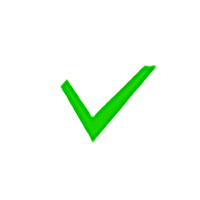
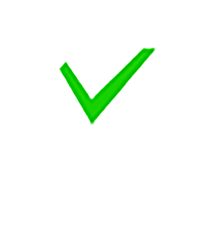
发现页调试

Changed region(s): [[0.3, 0.18, 0.78, 0.72]]

diff --git a/src/views/discover/component/everyTen.vue b/src/views/discover/component/everyTen.vue
@@ -2,11 +2,9 @@
   <div class="m-discover-every">
     <div class="m-swipe-box">
       <mt-swipe :auto="2000">
-        <mt-swipe-item v-for="item in items" :key="item.id">
-          <a :href="item.href" rel="external nofollow" >
-            <img :src="item.url" class="img"/>
-            <span class="desc"></span>
-          </a>
+        <mt-swipe-item v-for="item in bannerList" :key="item.id">
+            <img :src="item.rbimage" class="img" @click="toProduct(item)">
+            <!--<span class="desc"></span>-->
         </mt-swipe-item>
       </mt-swipe>
       <div class="m-scroll">
@@ -29,7 +27,6 @@
           </li>
         </ul>
       </div>
-
       <div class="m-title">
         <div>
           <img src="" class="m-item-title-img" alt="">
@@ -42,80 +39,9 @@
           <span>21231</span>
         </div>
       </div>
+      <div class="line"></div>
     </div>
-    <div class="m-swipe-box">
-      <mt-swipe :auto="2000">
-        <mt-swipe-item v-for="item in items" :key="item.id">
-          <a :href="item.href" rel="external nofollow" >
-            <img :src="item.url" class="img"/>
-            <span class="desc"></span>
-          </a>
-        </mt-swipe-item>
-      </mt-swipe>
-      <div class="m-scroll">
-        <ul class="m-img-list">
-          <li>
-            <img src="http://images.51bi.com/opt/siteimg/pb/20140307/c29ad52051879f0d13f1da57472abe88.jpeg" class="m-img-list-img" alt="">
-            <p><span class="m-price">￥169</span><span class="m-red">赚12</span></p>
-          </li>
-          <li>
-            <img src="http://img.eelly.com/G01/M00/00/89/small_oYYBAFWOxpSIBiLzAAMKSN5SRlQAAA1rgDeJeEAAwpg61.jpeg" class="m-img-list-img" alt="">
-            <p><span class="m-price">￥69</span><span class="m-red">赚12</span></p>
-          </li>
-          <li>
-            <img src="http://img.eelly.com/G02/M00/00/7F/small_pIYBAFVfLxCIItqyAATKYNG5CMEAAAxsQHbafcABMp4028.jpg" class="m-img-list-img" alt="">
-            <p><span class="m-price">￥69</span><span class="m-red">赚12</span></p>
-          </li>
-          <li>
-            <img src="http://img5.imgtn.bdimg.com/it/u=2506569644,813669471&fm=26&gp=0.jpg" class="m-img-list-img" alt="">
-            <p><span class="m-price">￥69</span><span class="m-red">赚12</span></p>
-          </li>
-        </ul>
-      </div>
-
-      <div class="m-title">
-        <div>
-          <img src="" class="m-item-title-img" alt="">
-          <span>拉夏贝尔La Chapelle</span>
-        </div>
-        <div class="m-lookinfo-box">
-          <span class="m-look-icon"></span>
-          <span>1231</span>
-          <span class="m-smile-icon"></span>
-          <span>21231</span>
-        </div>
-      </div>
-    </div>
-    <!--<div class="m-item-one">
-      <ul class="m-item-img-list">
-        <li>
-          <img src="" class="m-item-img m-item-img-l" alt="">
-        </li>
-        <li>
-          <img src="" class="m-item-img" alt="">
-        </li>
-        <li>
-          <img src="" class="m-item-img" alt="">
-        </li>
-        <li>
-          <img src="" class="m-item-img" alt="">
-        </li>
-      </ul>
-      <div class="m-title">
-        <div>
-          <img src="" class="m-item-title-img" alt="">
-          <span>拉夏贝尔La Chapelle</span>
-        </div>
-        <div class="m-lookinfo-box">
-          <span class="m-look-icon"></span>
-          <span>1231</span>
-          <span class="m-smile-icon"></span>
-          <span>21231</span>
-        </div>
-      </div>
-    </div>-->
   </div>
-
 </template>
 
 <script type="text/ecmascript-6">
@@ -125,13 +51,7 @@
     export default {
       data() {
         return {
-          items: [{
-            title: '你的名字',
-            href: 'http://google.com', url: 'http://img.zcool.cn/community/013a6159532b74a8012193a314e51c.png'
-          }, {
-            title: '我的名字',
-            href: 'http://baidu.com', url: 'http://img.zcool.cn/community/015b8556fca6f16ac7257948ffdc3d.jpg'
-          }]
+          bannerList: [],
         }
       },
       components: {},
@@ -141,12 +61,12 @@
           let token = localStorage.getItem('token');
           axios.get(api.get_info_recommend + '?token=' + token).then(res => {
             if(res.data.status == 200) {
-              console.log(res.data.data[0]);
+              console.log(res.data.data);
             }else{
-              Toast(res.data.message);
+              Toast({ message: '操作失败', className: 'm-toast-fail' });
             }
           },error => {
-            // Toast(error.data.message);
+            Toast({ message: '操作失败', className: 'm-toast-fail' });
           })
         },
         // 获取banner
@@ -154,14 +74,18 @@
           let token = localStorage.getItem('token');
           axios.get(api.get_all_recommendbanner + '?token=' + token).then(res => {
             if(res.data.status == 200) {
-              console.log(res.data.data[0]);
-              Toast(res.data.message);
+              this.bannerList = res.data.data;
+              // console.log(res.data.data);
+              // Toast({ message: '操作成功', className: 'm-toast-fail' });
             }else{
-              Toast(res.data.message);
+              Toast({ message: '操作失败', className: 'm-toast-fail' });
             }
           },error => {
-            // Toast(error.data.message);
+            Toast({ message: '操作失败', className: 'm-toast-fail' });
           })
+        },
+        toProduct(item) {
+          console.log(item);
         }
       },
       created() {

diff --git a/src/views/discover/index.vue b/src/views/discover/index.vue
@@ -53,22 +53,22 @@
           show_modal:false,
           nav_list:[
             {
-              name:'每日10荐',
+              tnname:'每日10荐',
               url:'every',
               dot:false,
               click:true
             },{
-              name:'素材圈',
+              tnname:'素材圈',
               url:'fodder',
               dot:false,
               click:false
             },{
-              name:'公告',
+              tnname:'公告',
               url:'announcement',
               dot:true,
               click:false
             },{
-              name:'教程',
+              tnname:'教程',
               url:'course',
               dot:true,
               click:false

diff --git a/src/common/css/index.less b/src/common/css/index.less
@@ -81,5 +81,20 @@ body{
   color: @bgMainColor;
 }
 
+//toast的提示样式
+.m-toast-success {
+  display: flex;
+  width: 200px;
+  height: 250px;
+  background: url("/static/images/toast_success.png") no-repeat;
+  background-size: 100% 100%;
+}
+.m-toast-fail {
+  display: flex;
+  width: 200px;
+  height: 250px;
+  background: url("/static/images/toast_fail.png") no-repeat;
+  background-size: 100% 100%;
+}
 
 

diff --git a/src/common/css/discover.less b/src/common/css/discover.less
@@ -1,5 +1,6 @@
 @import "index";
 //每日10荐
+
 .m-discover-every{
   font-size: 26px;
   .m-swipe-box{
@@ -68,9 +69,14 @@
       }
     }
   }
+  .line {
+    width: 750px;
+    height: 3px;
+    margin-left: -45px;
+    background-color: @borderColor;
+  }
   .m-title{
     .flex-row(space-between);
-    border-bottom: 1px solid @borderColor;
     padding: 20px 0;
     color: #a3a3a3;
     font-size: 20px;

diff --git a/src/api/api.js b/src/api/api.js
@@ -1,6 +1,6 @@
 
-// const title = 'http://10.0.0.63:7443';
-const title = 'http://120.79.182.43:7443';
+const title = 'http://10.0.0.63:7443';
+// const title = 'http://120.79.182.43:7443';
 
 const api={
   login: title + '/user/login',//用户登录

diff --git a/src/common/css/_remint.less b/src/common/css/_remint.less
@@ -58,3 +58,8 @@ p{
   color: @mainColor;
   border-bottom: 3px solid @mainColor;
 }
+.mint-toast-text {
+  font-size: 30px;
+  color: @greyColor;
+  padding: 150px 0 0 20px !important;
+}
